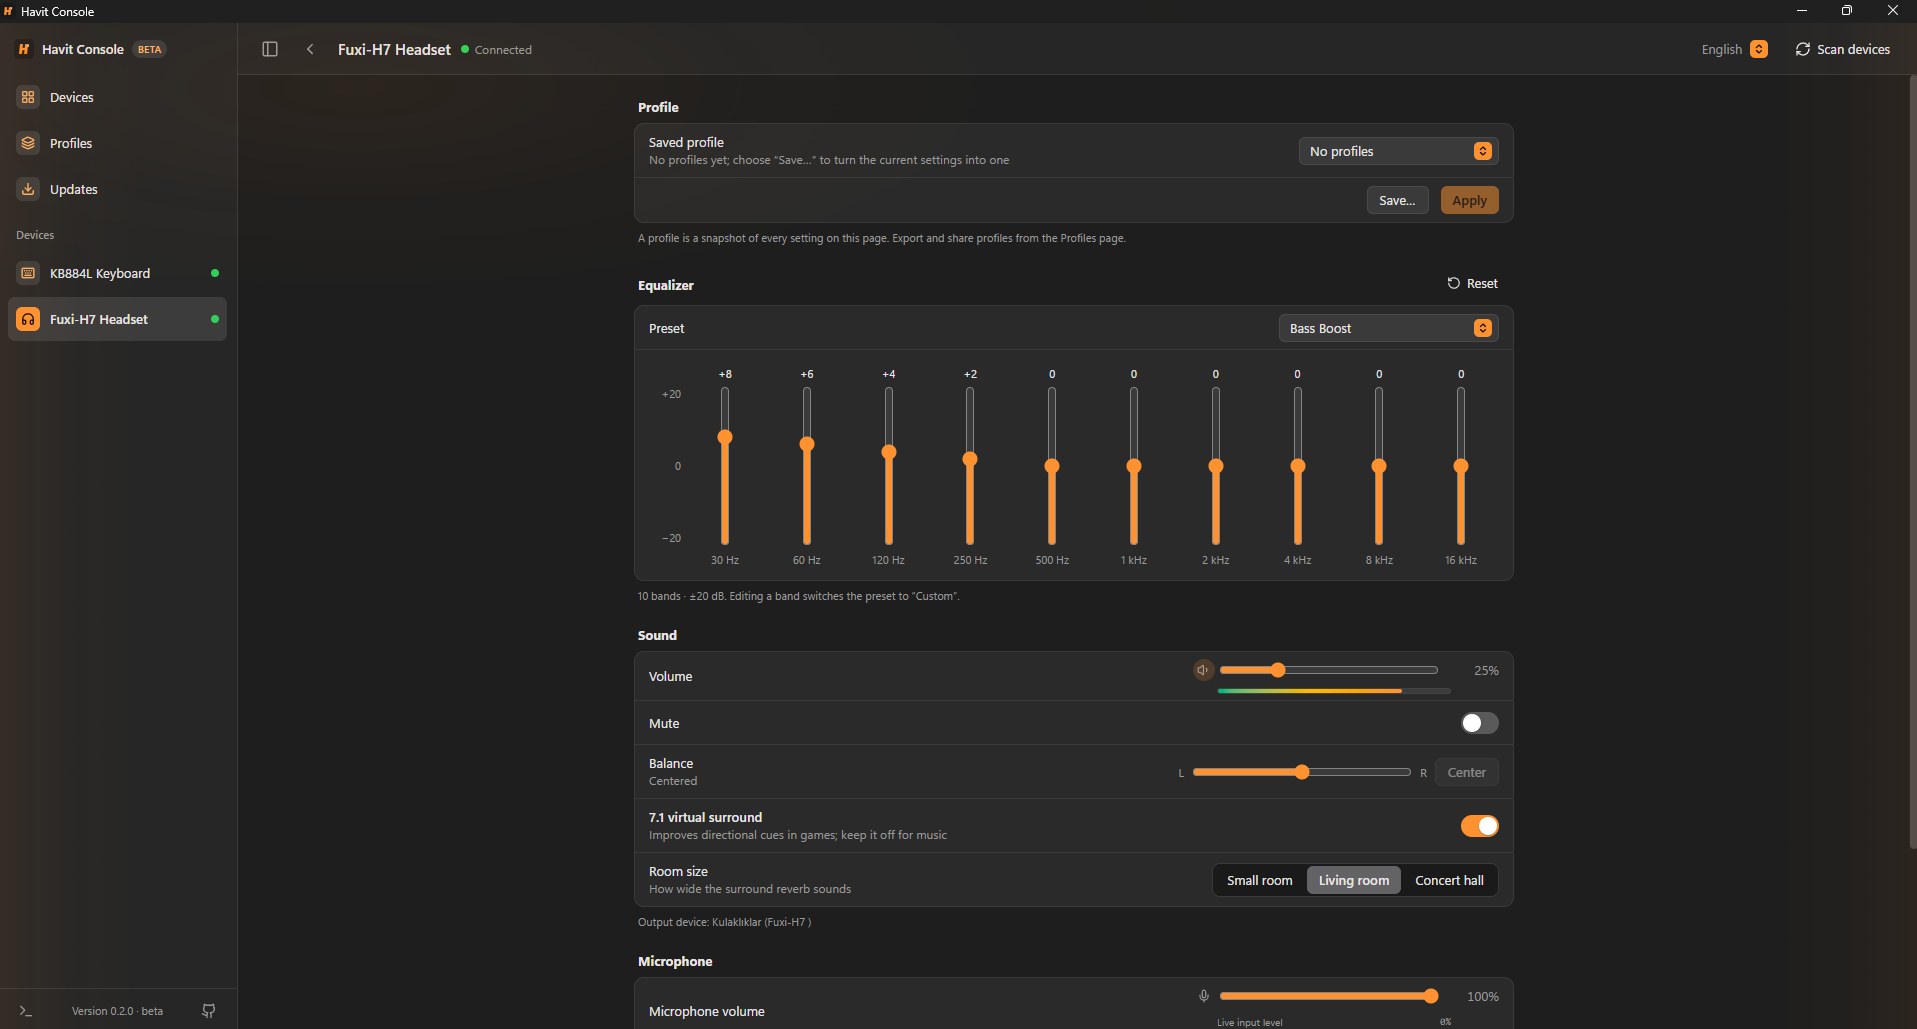
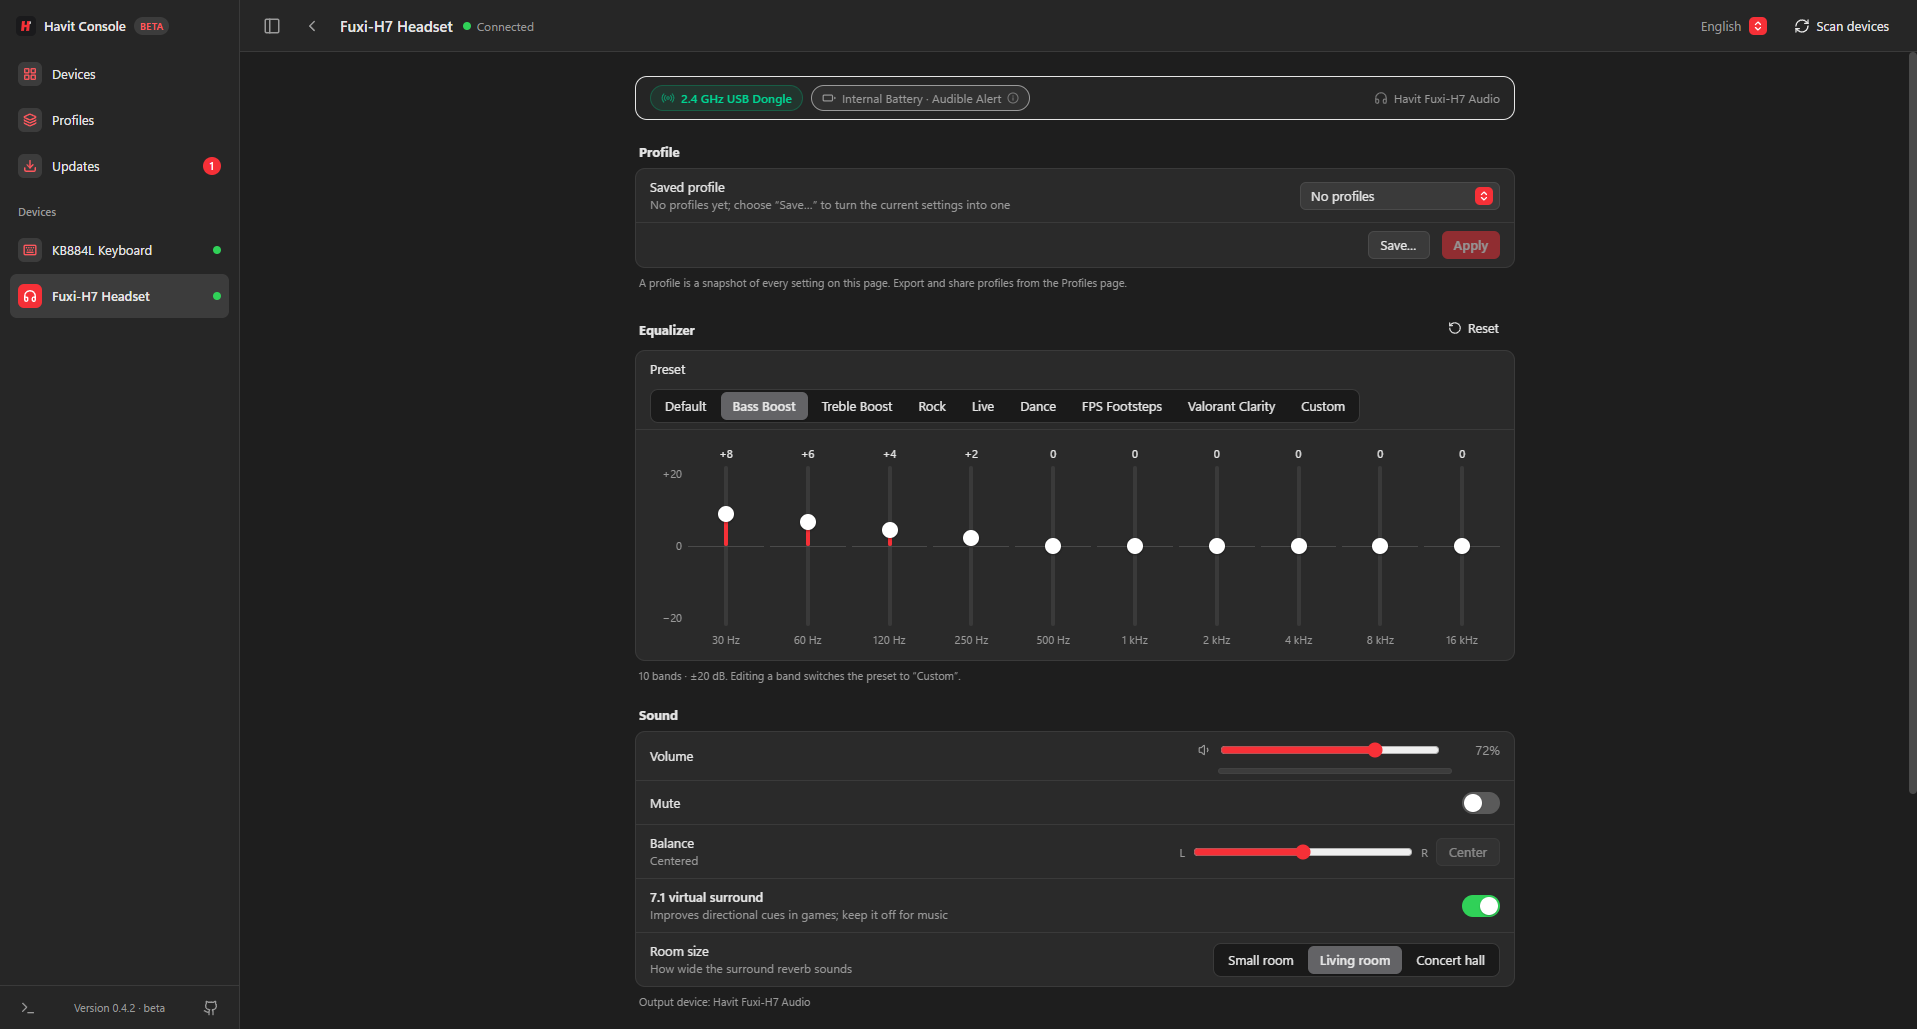
feat(headset): redesign equalizer with preset segments and custom sliders
Presets are a segmented control; bands get a slim track with a zero line,
accent fill and white knob while keeping the native range input for keyboard
and screen readers. README screenshots refreshed.

diff --git a/src/components/fuxi/EqualizerPanel.tsx b/src/components/fuxi/EqualizerPanel.tsx
@@ -1,12 +1,15 @@
 import React from "react";
 import { RotateCcw } from "lucide-react";
-import { Button, Row, Section, Select } from "../ui";
+import { Button, Row, Section, Segmented } from "../ui";
 import { currentLang, translate, useT, type Lang, type MessageKey } from "../../i18n";
 
 export interface EqBand {
   freq: string;
   gain: number; // -20..+20 dB
 }
+
+/** Band gain limit in dB (each band spans -EQ_MAX..+EQ_MAX). */
+const EQ_MAX = 20;
 
 export const EQ_FREQUENCIES = [
   "30 Hz",
@@ -86,18 +89,18 @@ export const EqualizerPanel: React.FC<EqualizerPanelProps> = ({
       }
       footer={t("eq.footer")}
     >
-      <Row label={t("eq.preset")} htmlFor="eq-preset">
-        <Select
-          id="eq-preset"
-          value={isCustom ? "__custom" : activePreset}
+      <Row label={t("eq.preset")}>
+        <Segmented
+          label={t("eq.preset")}
+          value={isCustom ? "Custom" : activePreset}
           options={[
-            ...presetNames.map((name) => ({ value: name, label: eqPresetLabel(name, lang) })),
-            ...(isCustom ? [{ value: "__custom", label: t("eq.custom"), disabled: true }] : []),
+            ...presetNames.map((name) => ({ id: name, label: eqPresetLabel(name, lang) })),
+            { id: "Custom", label: t("eq.custom") },
           ]}
           onChange={(name) => {
             if (name in EQ_PRESETS) handleApplyPreset(name, EQ_PRESETS[name]);
+            else onPresetChange("Custom");
           }}
-          className="min-w-[220px]"
         />
       </Row>
 
@@ -107,27 +110,43 @@ export const EqualizerPanel: React.FC<EqualizerPanelProps> = ({
             aria-hidden="true"
             className="mt-5 flex h-40 w-8 flex-none flex-col justify-between text-right text-[11px] text-secondary tabular-nums"
           >
-            <span>+20</span>
+            <span>+{EQ_MAX}</span>
             <span>0</span>
-            <span>−20</span>
+            <span>−{EQ_MAX}</span>
           </div>
           {EQ_FREQUENCIES.map((freq, idx) => {
             const val = bands[idx] ?? 0;
+            // Position from the top of the 160 px track, as a percentage (0 dB = 50%).
+            const pos = 50 - (val / EQ_MAX) * 50;
             return (
-              <label key={freq} className="flex flex-1 flex-col items-center gap-1.5">
+              <label key={freq} className="flex flex-1 cursor-pointer flex-col items-center gap-1.5">
                 <span className="h-3.5 text-[11px] tabular-nums">{val > 0 ? `+${val}` : val}</span>
-                <input
-                  type="range"
-                  min={-20}
-                  max={20}
-                  step={1}
-                  value={val}
-                  aria-label={t("eq.band", { freq })}
-                  aria-valuetext={`${val} dB`}
-                  onChange={(e) => handleBandChange(idx, Number(e.target.value))}
-                  className="h-40 w-6"
-                  style={{ writingMode: "vertical-lr", direction: "rtl" }}
-                />
+                <span className="relative flex h-40 w-full justify-center">
+                  <span aria-hidden="true" className="absolute inset-x-0 top-1/2 h-px bg-control-border" />
+                  <span aria-hidden="true" className="h-full w-1 rounded-full bg-control" />
+                  <span
+                    aria-hidden="true"
+                    className="absolute w-1 rounded-full bg-accent"
+                    style={{ top: `${Math.min(pos, 50)}%`, height: `${Math.abs(50 - pos)}%` }}
+                  />
+                  <input
+                    type="range"
+                    min={-EQ_MAX}
+                    max={EQ_MAX}
+                    step={1}
+                    value={val}
+                    aria-label={t("eq.band", { freq })}
+                    aria-valuetext={`${val} dB`}
+                    onChange={(e) => handleBandChange(idx, Number(e.target.value))}
+                    className="peer absolute inset-0 m-0 h-full w-full cursor-pointer opacity-0"
+                    style={{ writingMode: "vertical-lr", direction: "rtl" }}
+                  />
+                  <span
+                    aria-hidden="true"
+                    className="pointer-events-none absolute h-4 w-4 -translate-y-1/2 rounded-full bg-white shadow-[0_1px_3px_rgba(0,0,0,0.5)] peer-focus-visible:ring-2 peer-focus-visible:ring-focus"
+                    style={{ top: `${pos}%` }}
+                  />
+                </span>
                 <span className="text-[11px] whitespace-nowrap text-secondary">{freq}</span>
               </label>
             );
